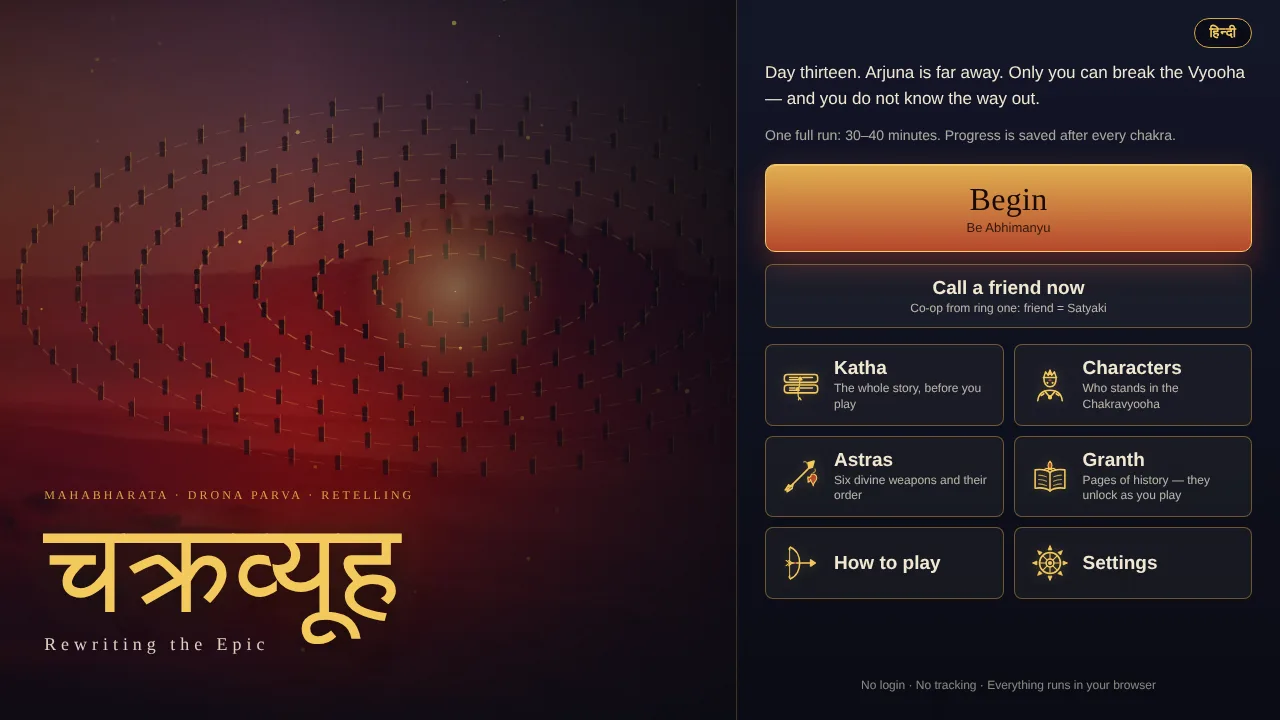
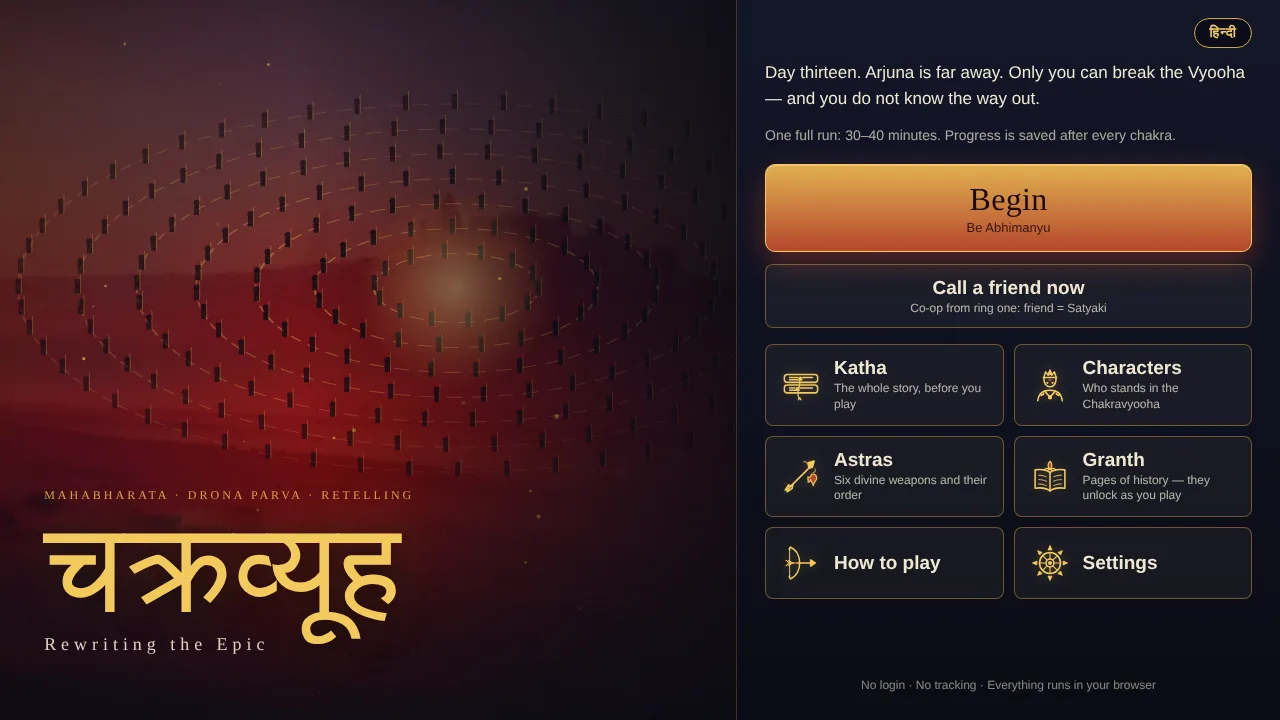
Chakravyooha: latest build details and fresh screenshots; feature it on the intro
Claude-Session: https://claude.ai/code/session_01KZaQe2hJKiLbxMoLPp31Mo

diff --git a/data.js b/data.js
@@ -56,10 +56,10 @@ window.NM = {
       line: "Give to NGO causes, earn karma points, spend them on courses and brand offers. Daanveer Karn, with a rewards programme.",
       facts: [["Proof", "A clickable prototype with sample content, built to test the idea. Not a live product."]],
       url: "https://altgiving.my.canva.site" },
-    { id: "chakravyooha", logo: "img/logo/chakravyooha.svg", site: ["Play in your browser","https://nikhilmodiofficial.github.io/chakravyooha/"], gallery: [["img/cv-home.webp","Chakravyooha home screen with the title in Devanagari and a Begin button",1280,720,"The home screen, in English or Hindi"],["img/cv-play.webp","Chakravyooha gameplay: Abhimanyu fighting soldiers in the first ring",1280,720,"Ring one: clear the soldiers, then the boss"],["img/cv-story.webp","Chakravyooha opening scene: the thirteenth day at Kurukshetra",1280,720,"The story opens on day thirteen at Kurukshetra"],["img/cv-characters.webp","Chakravyooha characters screen with Abhimanyu, Satyaki, Karna, Drona and others",1280,720,"Who stands in the Chakravyooha"]], ask: { q: "Would you call a friend in to finish it?", opts: ["I’d send the link", "I’d play solo", "Not my kind of game"], note: "What would make you share it, or what stopped you?" }, links: [["Product","https://nikhilmodiofficial.github.io/chakravyooha/","Play it"],["Code","https://github.com/nikhilmodiofficial/chakravyooha","GitHub, public repo"]], year: 2026.9, span: "Nov 2026", band: "studio", kind: "product",
+    { id: "chakravyooha", logo: "img/logo/chakravyooha.svg", site: ["Play in your browser","https://nikhilmodiofficial.github.io/chakravyooha/"], gallery: [["img/cv-home.webp","Chakravyooha home screen: the title in Devanagari, Begin, Call a friend now, Katha, Characters, Astras, Granth",1280,720,"The home screen, in English or Hindi"],["img/cv-play.webp","Chakravyooha gameplay: Abhimanyu surrounded by soldiers in the first chakra",1280,720,"The first chakra: clear the soldiers, then face Dushasana"],["img/cv-phone.webp","Chakravyooha on a phone, with a joystick and Strike, Shield, Switch and Jump buttons",540,1169,"On a phone: a floating joystick, buttons fanned around the thumb"],["img/cv-story.webp","Chakravyooha opening scene: the thirteenth day at Kurukshetra, narrated by Sanjaya",1280,720,"The story opens on day thirteen, told by Sanjaya"]], ask: { q: "Would you call a friend in to finish it?", opts: ["I’d send the link", "I’d play solo", "Not my kind of game"], note: "What would make you share it, or what stopped you?" }, links: [["Product","https://nikhilmodiofficial.github.io/chakravyooha/","Play it"],["Code","https://github.com/nikhilmodiofficial/chakravyooha","GitHub, public repo"]], year: 2026.9, span: "Nov 2026", band: "studio", kind: "product",
       title: "Chakravyooha", status: "Live", role: "Designer and builder",
-      line: "A browser game that rewrites day 13 of the Mahabharata. Abhimanyu breaks in; this time a friend walks in as Satyaki and gets him out.",
-      facts: [["Play", "Seven rings, each a boss fight from the Drona Parva. 30 to 40 minutes a run, saved after every ring."], ["Co-op", "Ring 7 can’t be won alone. Send a link and a friend drops in as Satyaki, peer to peer, no server."], ["Built with", "Vanilla JS and Canvas, no build step, no backend, no login. Music, sound and voice are generated in the browser."]],
+      line: "A browser game that rewrites day 13 of the Mahabharata. Abhimanyu breaks in, and this time a friend walks in as Satyaki and gets him out.",
+      facts: [["Play", "Seven chakras, each a boss fight from the Drona Parva, Dushasana to the six-maharathi siege. 30 to 40 minutes a run, saved after every chakra."], ["Combat", "Sword, bow and mace, each with a job. Every maharathi has a hidden marma, a weak point you find by playing, not by reading hints."], ["Co-op", "The last chakra can’t be won alone. Send a link and a friend drops in as Satyaki, phone to phone with no server. If the link drops, the friend rejoins on their own."], ["Fair, not easy", "Fall in a chakra and the next try gets blessings: fewer soldiers, a softer maharathi. Clear one fast and the vyooha tightens."], ["Built with", "Vanilla JS and Canvas, no build step, no login, no tracking. Music, sound and voice are generated in the browser. English or Hindi."]],
       call: "chakravyooha" },
     { id: "journal", logo: "img/logo/aks.svg", site: ["Android app, private beta",""], gallery: [["img/aks-tour.webp","AKS first screen: A journal only you can read",540,1200,"Real screenshots from an emulator, with the app’s demo entries"],["img/aks-today.webp","AKS Today screen in dark mode with recent entries",540,1200,"Today, in dark mode"],["img/aks-ask.webp","AKS Ask your journal screen with quick searches",540,1200,"Ask your journal: answers are your own lines"],["img/aks-entry.webp","An AKS journal entry with mood and tags",540,1200,"An entry, with mood and tags"],["img/aks-voice.webp","AKS saved voice note with options to turn it into text",540,1200,"A voice note: turn it into text on the phone, or keep the audio"],["img/aks-write.webp","AKS writing screen with mood and tags",540,1200,"Writing: it saves as you type"],["img/aks-light.webp","AKS Today screen in light mode",540,1200,"Today, in light mode"]], ask: { q: "Want early access to AKS?", opts: ["Yes, invite me", "Tell me more first", "Not for me"], note: "Your email or LinkedIn, so I can send the AKS invite" }, links: [["Product","","Private beta, not public yet"],["Code","","Private repo"]], year: 2026.85, span: "Nov 2026", band: "studio", kind: "product",
       title: "AKS", status: "Private beta", role: "Founder",

diff --git a/index.html b/index.html
@@ -312,7 +312,7 @@ figcaption{font-size:13px;color:var(--muted)}
   <p class="who">Nikhil Modi, product manager and founder of Kill Criteria</p>
   <h1 id="h1">Shipping products with AI, testing them in public.</h1>
   <p class="lede">Seven rings, one for each stretch of my career. Every ring hides a treasure (read ‘something I built’), and the guards at the gates ask what you’d have done in my place. Answer or skip. This isn’t Abhimanyu’s vyuh; nobody gets&nbsp;trapped.</p>
-  <a class="now" href="#" id="nowLink"><span>Running now</span>Post or Pay, a public pilot with real money on it</a>
+  <a class="now" href="#" id="nowLink"><span>New</span>Chakravyooha, a browser game where a friend gets Abhimanyu out</a>
   <div class="actions">
     <button class="btn primary" type="button" id="enter">Enter the vyuh</button>
     <button class="btn" type="button" data-brief>20-second version</button>
@@ -688,7 +688,7 @@ function showList(){
   openSheet();
 }
 $("#listBtn").onclick=showList;document.querySelectorAll("[data-list]").forEach(b=>b.onclick=showList);
-$("#nowLink").onclick=e=>{e.preventDefault();showTreasure("postorpay",true)};
+$("#nowLink").onclick=e=>{e.preventDefault();showTreasure("chakravyooha",true)};
 
 /* ---------- brief, lightbox, toast ---------- */
 let lastF=null;
